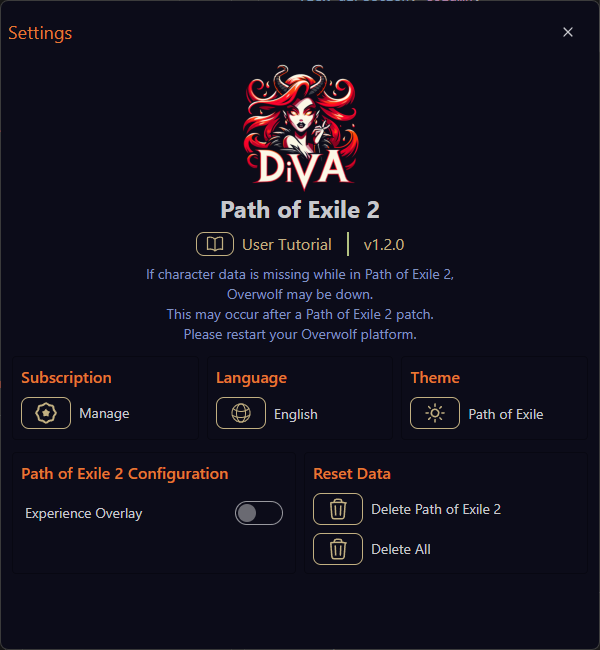
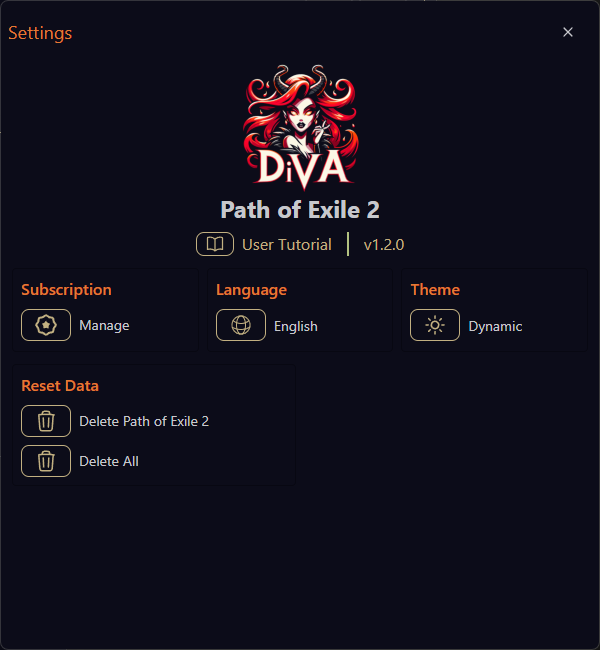
dynamic Interface with Visual analytics

diff --git a/README.md b/README.md
@@ -1,3 +1,26 @@
-# Tutorials for MYLA Products
+## Tutorials for MYLA Products
 
-- [dIVa Tutorial](https://myla-llc.github.io/tutorials/dIVa/index.html)
+# dIVa 
+
+A dynamic interface with visual analytics, dIVa elevates your aRPG journey with real-time statistics and intelligent overlays for Gold, Experience, Speed Leveling, and more!
+
+[Tutorial](https://myla-llc.github.io/tutorials/dIVa/index.html)
+
+*Designed for true enthusiasts, **dIVa** is your ultimate aRPG analytics companion that helps you discover the most resource-efficient gameplay across multiple games. Enjoy in-game overlays with up-to-the-minute updates on Gold, Experience, and Speed Leveling, ensuring you maximize your efficiency in every gaming session.*
+
+### Supported Games
+- Diablo IV (including Vessel of Hatred expansion)
+- Diablo II: Resurrected
+- Path of Exile 2
+
+### Latest Features (v1.2.0)
+- **Game-Specific Themes**: Each supported game has its unique theme, bringing the perfect ambiance to your analytics
+- **Dynamic Theme Switching**: Themes automatically adjust based on your active game
+- **Offline Support**: Full offline mode support for Path of Exile 2
+
+Visit our [User Guide](https://myla-llc.github.io/tutorials/dIVa/index.html), or see the introduction video on [YouTube](https://youtu.be/9ZPsBgi1_M8)!
+
+dIVa supports multiple languages, allowing you to enjoy the full experience in your preferred language!
+- English
+- Español
+- Português
